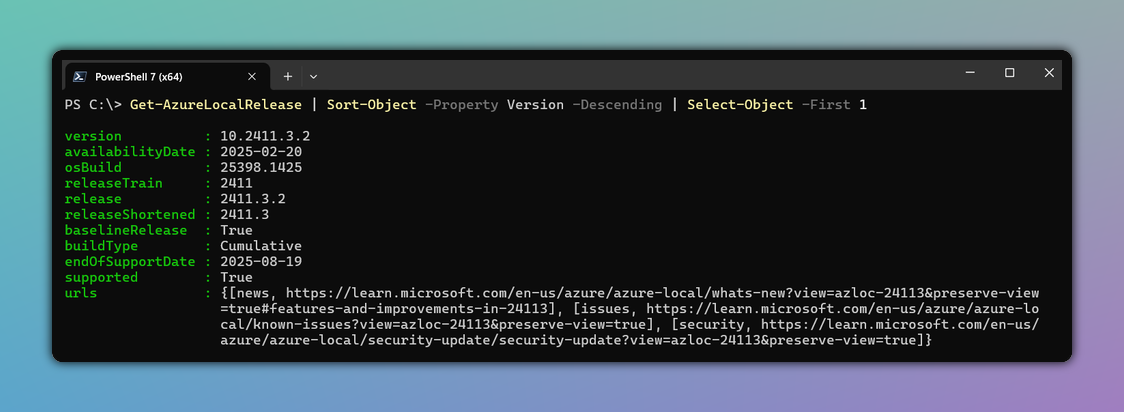
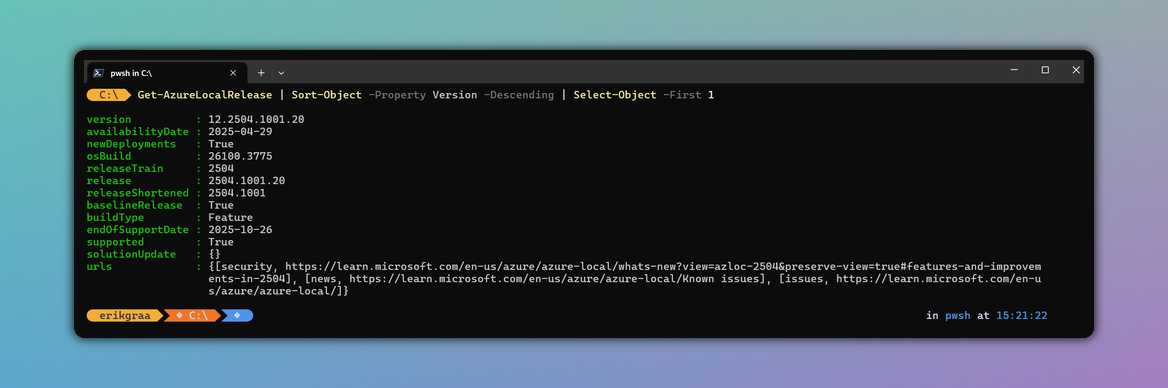
Updated to include whether a release is meant for new deployments, as well as any releases that includes solution update bundle URIs

Changed region(s): [[0.0311, 0.0928, 0.9653, 0.8969]]

diff --git a/README.md b/README.md
@@ -68,7 +68,9 @@ docker run --name pode -p 8080:8080 -d pode/azure-local-releases
 
 ## ✍ Blog post
 
-See the related blog post at https://blog.graa.dev/AzureLocal-Releases for possible use cases.
+See the related blog posts at https://blog.graa.dev for possible use cases:
+* https://blog.graa.dev/AzureLocal-Releases
+* https://blog.graa.dev/AzureLocal-InternetConstrainedUpdates
 
 ## 🌳 Repository
 
